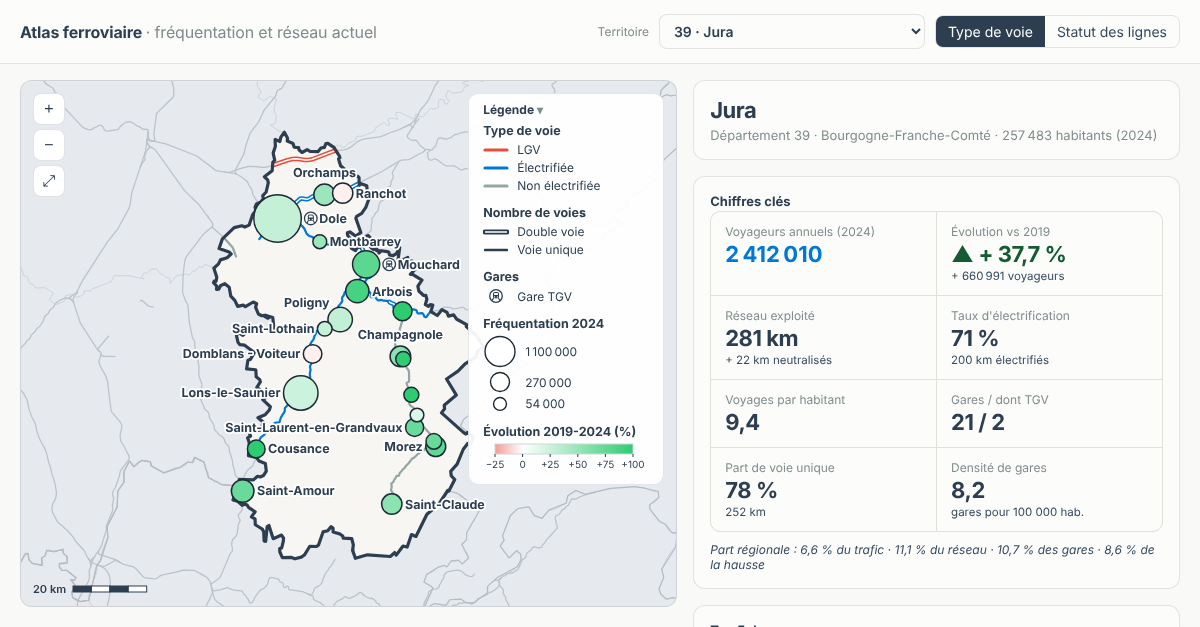
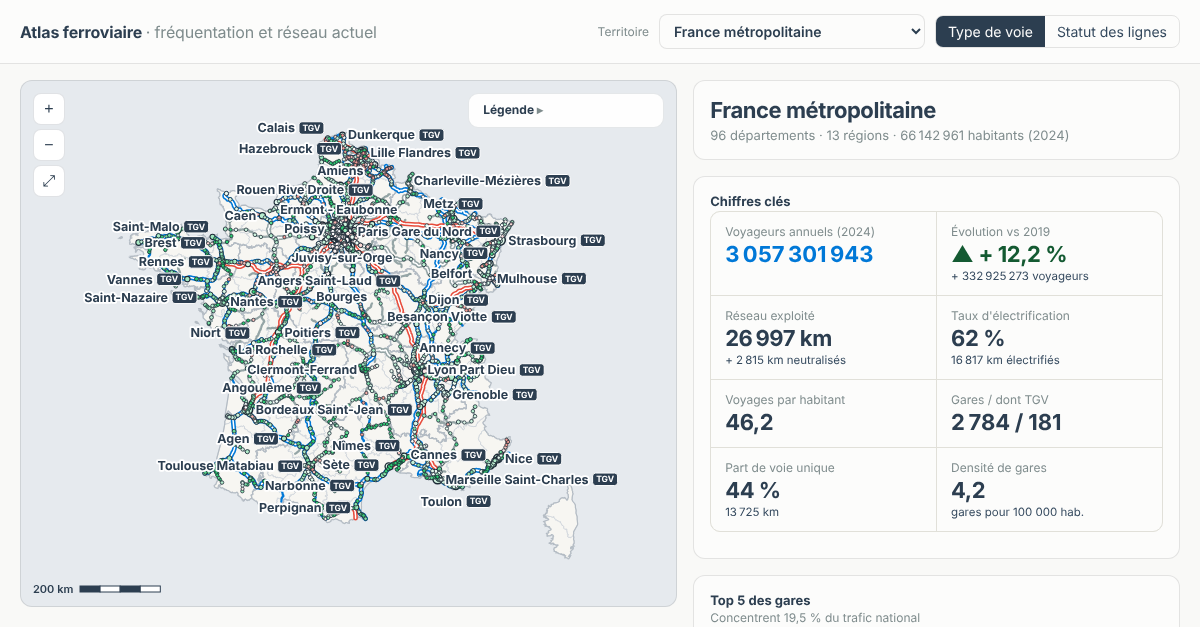
Update #10
- Changement de la preview, la France métropolitaine remplace le Jura
- Changement de la première page lors de l'arrivée sur le site, la France métropolitaine remplace le Jura

diff --git a/index.html b/index.html
@@ -1076,7 +1076,7 @@
   document.querySelector(".legend").addEventListener("toggle", () => scheduleLabels());
   if (document.fonts && document.fonts.ready) document.fonts.ready.then(() => scheduleLabels());
   styleLines();
-  apply(parseHash(location.hash) || { type: "dep", code: "39" });
+  apply(parseHash(location.hash) || { type: "fr" });
 })();
 </script>
 </body>
